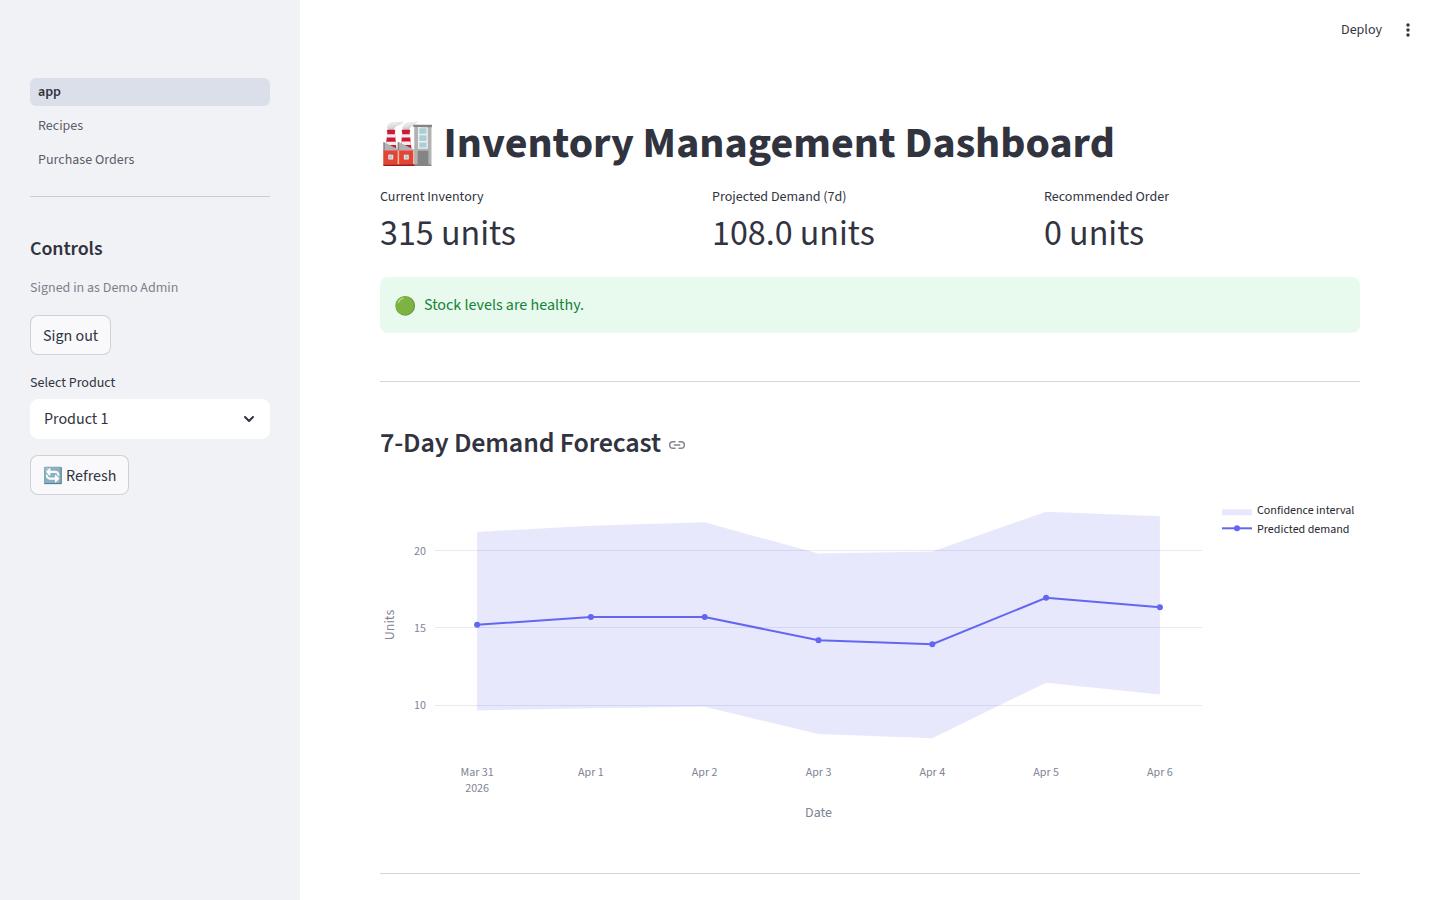
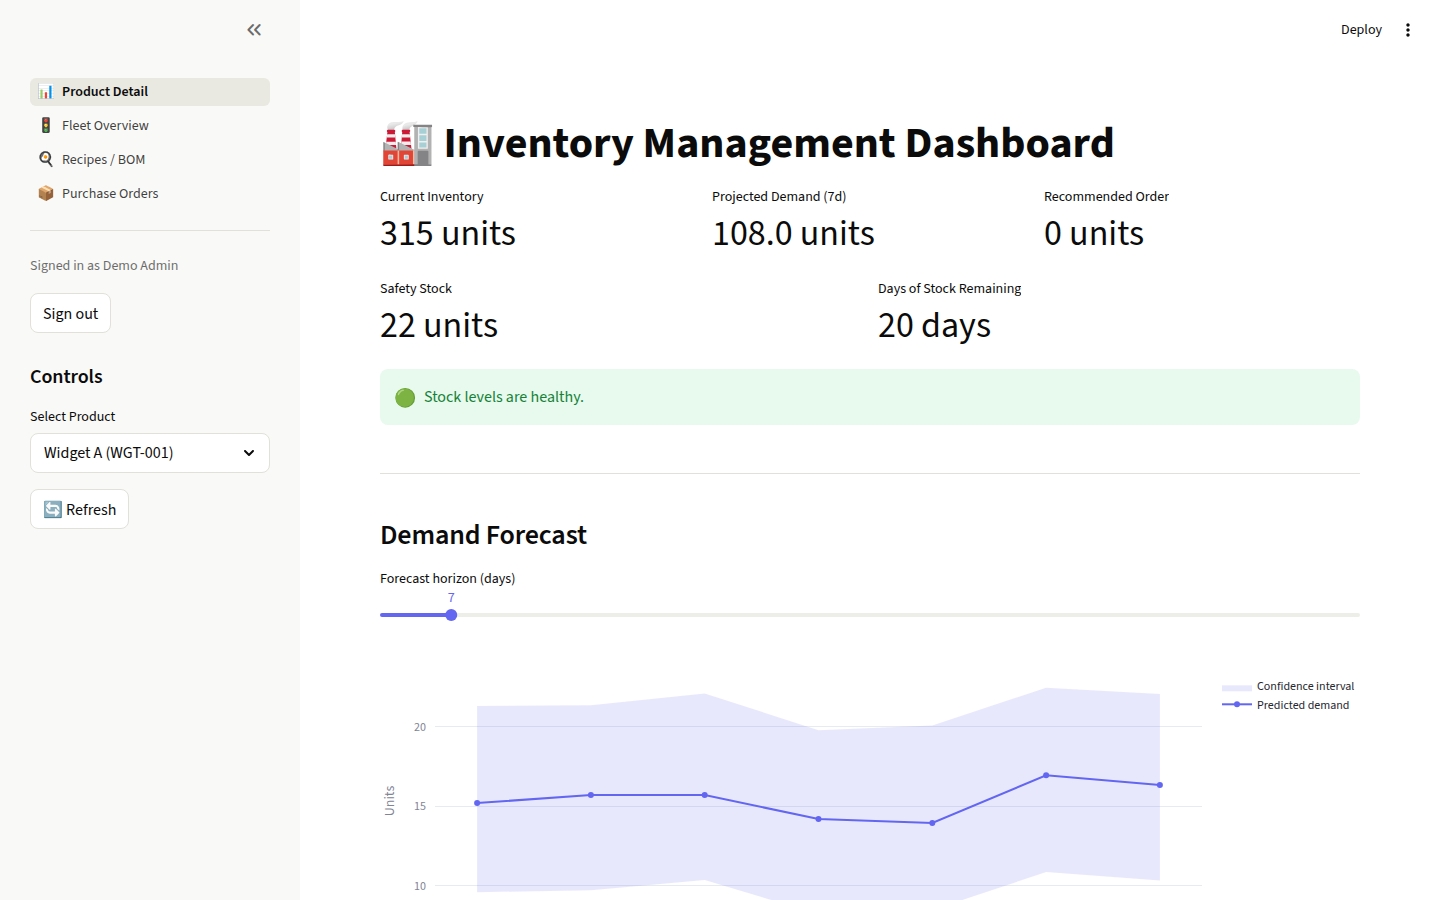
docs: sync README/ROADMAP/screenshot to the shipped dashboard UX overhaul (#114)
The last real doc sweep predates #68-#73 (multi-page nav, Fleet
Overview, Product Detail enhancements, theming) and Path A shipping.
Fixes found while syncing, not just the dashboard work:

- README's dashboard bullet and screenshot were describing/showing the
  old single-page layout (nav labeled "app", "Product 1" instead of a
  real name/SKU, no Fleet Overview, no new KPI tiles, no forecast
  slider, old theme colors) — recaptured the screenshot live against
  the running dashboard.
- README's "In Progress" section called Path A current work; it's
  been fully shipped since (PRs #100-106) — renamed to "Recently
  Shipped" and split the genuinely-deferred Path B items into their
  own section, adding #74 (VPS deploy, separate no-cost constraint)
  which wasn't listed at all.
- ROADMAP.md still showed #99 (audit_log tamper protection) as open;
  it shipped as PR #107 — checkbox flipped.
- README's roadmap table dropped the stale #99 reference, marked Path
  A complete, and added a 7.1 row for the dashboard UX epoch.

Verified both files render correctly via the GitHub markdown API
before committing (this repo has a history of silently-broken
checklist rendering — see the PR #100-106 arc).

diff --git a/README.md b/README.md
@@ -32,7 +32,12 @@ An event-driven inventory platform with a full analytics pipeline and ML-powered
       registry — backtested for day-of-week-heavy demand (e.g. restaurant
       weekday/weekend spikes); requires 14+ days of history so
       `weekly_seasonality` has seen the weekly cycle repeat at least once
-- [x] Streamlit dashboard — live inventory, event history, 30-day forecasts
+- [x] Multi-page Streamlit dashboard — Product Detail (live inventory,
+      configurable-horizon demand forecast, safety-stock/days-of-stock
+      KPIs, filterable/paginated event history), Fleet Overview
+      (portfolio-wide KPIs, urgency filtering, click-through to Product
+      Detail), Recipes/BOM, Purchase Orders, and an admin/ops panel
+      (replay + export), themed via `.streamlit/config.toml`
 - [x] Prometheus metrics + structured JSON request logging
       (`/metrics`, `X-Request-ID`)
 - [x] CI on every push/PR — lint, full test suite (incl. Postgres-only
@@ -58,21 +63,34 @@ An event-driven inventory platform with a full analytics pipeline and ML-powered
 - [x] Size caps on both generic ingestion paths (10MB/50k-row CSV bulk
       import, 1000-item webhook payload) — see [SECURITY.md](SECURITY.md#ingestion-size-limits)
 
-## In Progress
+## Recently Shipped
 
-**Current focus — Path A, getting one real restaurant running this daily:**
-recipes/BOM (dishes consume ingredients in fixed quantities), a `WASTE`
-event type, a real `PurchaseOrder` object, day-of-week-aware forecasting, a
-CLI wrapper (`ims start`/`setup`/`backup`), and a backup routine. See
+**Path A — getting one real restaurant running this daily:** recipes/BOM
+(dishes consume ingredients in fixed quantities), a `WASTE` event type, a
+real `PurchaseOrder` object, day-of-week-aware forecasting, a CLI wrapper
+(`ims start`/`setup`/`backup`), and a backup routine. See
 [ROADMAP.md](ROADMAP.md)'s "Path A" section for the full list.
 
-**Deferred until Path A has real signal that more than one business wants
-this (Path B, general small/mid-business audience — see
-[ROADMAP.md](ROADMAP.md) Epochs 10-15):**
+**Dashboard UX overhaul (Epoch 7.1):** multi-page navigation
+(`st.navigation()`/`st.Page()`, replacing the old single-page layout), a
+portfolio-wide **Fleet Overview** page (KPIs across every product, urgency
+filtering, click-through to Product Detail), Product Detail enhancements
+(forecast horizon slider up to 90 days, safety-stock/days-of-stock-remaining
+KPI tiles, event-type filter + pagination on the event history table), and
+a `.streamlit/config.toml` theming pass.
+
+## Deferred (Path B)
+
+Deferred until Path A has real signal that more than one business wants
+this (general small/mid-business audience — see
+[ROADMAP.md](ROADMAP.md) Epochs 10-15):
 
 - [ ] Move the data lake off the local filesystem onto S3-compatible object
       storage (`#22` — rescoped, not blocked: MinIO for self-hosted, real
       S3 for AWS)
+- [ ] Deploy the self-hosted stack to a real VPS (`#74` — deferred on a
+      separate no-cost budget constraint, not signal-gating like the rest
+      of this list)
 - [ ] Deploy the dashboard on AWS (ECS, reading the feature store from S3)
 - [ ] Apply the AWS Terraform — ECS/RDS/ALB infra is written, not yet running
 - [ ] Multi-tenancy, real integrations (Shopify/QuickBooks/etc.), order
@@ -524,8 +542,9 @@ Copy `.env.example` to `.env` and adjust as needed.
 | 4 | Feature Engineering | ✅ Complete |
 | 5 | ML Platform (Prophet forecasting) | ✅ Complete |
 | 6 | Streamlit Dashboard | ✅ Complete |
-| 7 | Production Hardening + Deployment (self-hosted + AWS) | Nearly complete — `#22` (S3 data lake), `#99` (audit log tamper protection) open |
-| Path A | Restaurant deployment — recipes/BOM, `WASTE` events, real POs, forecasting tuning, CLI wrapper, backups | In Progress |
+| 7 | Production Hardening + Deployment (self-hosted + AWS) | Nearly complete — `#22` (S3 data lake) open, deferred to Path B |
+| 7.1 | Dashboard UX Overhaul — multi-page nav, Fleet Overview, Product Detail enhancements, theming | ✅ Complete |
+| Path A | Restaurant deployment — recipes/BOM, `WASTE` events, real POs, forecasting tuning, CLI wrapper, backups | ✅ Complete |
 | 10-15 | General small/mid-business platform (Path B) | Deferred until Path A has signal |
 
 ---

diff --git a/ROADMAP.md b/ROADMAP.md
@@ -386,16 +386,10 @@ Phase A-C backlog.
       on `POST /api/webhooks/ingest`'s `events` list (rate-limit-exempt by
       design, so schema validation was the only available bound) — see
       SECURITY.md's "Ingestion size limits" section.  
-- [ ] Add DB-level tamper protection to `audit_log` (#99, filed, low
-      severity/defense-in-depth, not an active vulnerability — no SQL
-      injection exists anywhere in the app to leverage this today). The
-      single shared Postgres app role has full UPDATE/DELETE on every
-      table including `audit_log`, so immutability today holds only by
-      code convention (`audit_service.log_action` never updates/deletes),
-      not by a DB-level guarantee. Options: revoke UPDATE/DELETE on the
-      table from the app role via migration, or an append-only trigger
-      that rejects UPDATE/DELETE regardless of role. Estimate: a few
-      hours.  
+- [x] Add DB-level tamper protection to `audit_log` (#99, PR #107) — a
+      Postgres trigger rejects `UPDATE`/`DELETE` on the table regardless
+      of role, so immutability no longer holds only by code convention
+      (`audit_service.log_action` never updating/deleting).  
 
 ------------------------------------------------------------
 EPOCH 7.1 — Dashboard UX Overhaul
